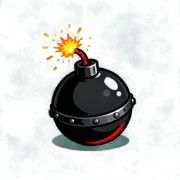
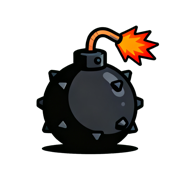
fix(web): 图鉴小Boss区滚动到位 + 轰天雷立绘重做 + 图标换立绘 + 哮天犬定身3s
- 图鉴怪物 Tab 小 Boss 区之前滚不到：monsterContentHeight 漏算小 Boss 区高度，
  补上后 5 种小 Boss（霜魄/蚀甲/撼地/疾风/血泉）立绘+血量+移速+技能可正常滚动查看
- 轰天雷立绘重做：古典中式球形雷+弯曲引信+火花（skill-act-bomb-2d4d58f7）
- 轰天雷图标改用 skill-act-bomb 立绘（drawSkillGlyph 经 skillAssetKey 自动取图，雷字兜底）
- 哮天犬定身 2s → 3s（battle.ts stunT）
- manifest-generated 合并修复（补回 skill-act-bomb hashed URL + hero-ttg）

diff --git a/web/src/game-assets/manifest-generated.ts b/web/src/game-assets/manifest-generated.ts
@@ -3,5 +3,107 @@
 // Web / 微信构建的 ASSET_URLS 优先引用此表（缺失时回退 CDN_BASE+原名）。不要手改。
 import { CDN_BASE } from '../asset-manifest.names';
 export const HASHED_URLS: Record<string, string> = {
+  "bgm-baiguling.mp3": "https://user-growth.tos-cn-shanghai.volces.com/dev/xy/bgm-baiguling-cecf7b63.mp3",
+  "bgm-huoyanshan.mp3": "https://user-growth.tos-cn-shanghai.volces.com/dev/xy/bgm-huoyanshan-63a4dd03.mp3",
+  "bgm-liushahe.mp3": "https://user-growth.tos-cn-shanghai.volces.com/dev/xy/bgm-liushahe-29d5a467.mp3",
+  "bgm-menu.mp3": "https://user-growth.tos-cn-shanghai.volces.com/dev/xy/bgm-menu-f12ea1f1.mp3",
+  "bgm-pansidong.mp3": "https://user-growth.tos-cn-shanghai.volces.com/dev/xy/bgm-pansidong-5015a75b.mp3",
+  "fence-baiguling.png": "https://user-growth.tos-cn-shanghai.volces.com/dev/xy/fence-baiguling-f0a6be28.png",
+  "fence-liushahe.png": "https://user-growth.tos-cn-shanghai.volces.com/dev/xy/fence-liushahe-3bb97fd0.png",
+  "fence-pansidong.png": "https://user-growth.tos-cn-shanghai.volces.com/dev/xy/fence-pansidong-e9ba1936.png",
+  "gate-liushahe.png": "https://user-growth.tos-cn-shanghai.volces.com/dev/xy/gate-liushahe-6c80629f.png",
+  "hero-baigujing.png": "https://user-growth.tos-cn-shanghai.volces.com/dev/xy/hero-baigujing-acf92bcb.png",
+  "hero-bailong.png": "https://user-growth.tos-cn-shanghai.volces.com/dev/xy/hero-bailong-ba4b6628.png",
+  "hero-bajie.png": "https://user-growth.tos-cn-shanghai.volces.com/dev/xy/hero-bajie-4ee16a36.png",
+  "hero-baxian.png": "https://user-growth.tos-cn-shanghai.volces.com/dev/xy/hero-baxian-b65b3e18.png",
+  "hero-damang.png": "https://user-growth.tos-cn-shanghai.volces.com/dev/xy/hero-damang-e81148c6.png",
+  "hero-danjun.png": "https://user-growth.tos-cn-shanghai.volces.com/dev/xy/hero-danjun-02c540f1.png",
+  "hero-erlang.png": "https://user-growth.tos-cn-shanghai.volces.com/dev/xy/hero-erlang-f552c2ae.png",
+  "hero-fanyin.png": "https://user-growth.tos-cn-shanghai.volces.com/dev/xy/hero-fanyin-38e6cb06.png",
+  "hero-guanyin.png": "https://user-growth.tos-cn-shanghai.volces.com/dev/xy/hero-guanyin-aa8b3091.png",
+  "hero-honghaier.png": "https://user-growth.tos-cn-shanghai.volces.com/dev/xy/hero-honghaier-9e35502d.png",
+  "hero-hongpao.png": "https://user-growth.tos-cn-shanghai.volces.com/dev/xy/hero-hongpao-3780425e.png",
+  "hero-huishu.png": "https://user-growth.tos-cn-shanghai.volces.com/dev/xy/hero-huishu-3e39c6c1.png",
+  "hero-jinzha.png": "https://user-growth.tos-cn-shanghai.volces.com/dev/xy/hero-jinzha-3f17289e.png",
+  "hero-laojun.png": "https://user-growth.tos-cn-shanghai.volces.com/dev/xy/hero-laojun-ffb1aa61.png",
+  "hero-liusha.png": "https://user-growth.tos-cn-shanghai.volces.com/dev/xy/hero-liusha-48e6d774.png",
+  "hero-mile.png": "https://user-growth.tos-cn-shanghai.volces.com/dev/xy/hero-mile-c740a819.png",
+  "hero-nezha.png": "https://user-growth.tos-cn-shanghai.volces.com/dev/xy/hero-nezha-54a4dcc6.png",
+  "hero-niulang.png": "https://user-growth.tos-cn-shanghai.volces.com/dev/xy/hero-niulang-4af35259.png",
+  "hero-niumowang.png": "https://user-growth.tos-cn-shanghai.volces.com/dev/xy/hero-niumowang-ae9c378d.png",
+  "hero-qingniu.png": "https://user-growth.tos-cn-shanghai.volces.com/dev/xy/hero-qingniu-bfe89715.png",
+  "hero-shaseng.png": "https://user-growth.tos-cn-shanghai.volces.com/dev/xy/hero-shaseng-0abf6cdf.png",
+  "hero-tangseng-hero.png": "https://user-growth.tos-cn-shanghai.volces.com/dev/xy/hero-tangseng-hero-8cd2e1ac.png",
+  "hero-tiebei.png": "https://user-growth.tos-cn-shanghai.volces.com/dev/xy/hero-tiebei-4d9eeaec.png",
+  "hero-tieshan.png": "https://user-growth.tos-cn-shanghai.volces.com/dev/xy/hero-tieshan-4c12ff94.png",
   "hero-ttg.png": "https://user-growth.tos-cn-shanghai.volces.com/dev/xy/hero-ttg-af240603.png",
+  "hero-wenshu.png": "https://user-growth.tos-cn-shanghai.volces.com/dev/xy/hero-wenshu-78027ab7.png",
+  "hero-wukong.png": "https://user-growth.tos-cn-shanghai.volces.com/dev/xy/hero-wukong-7c70a3d5.png",
+  "icon-merit.png": "https://user-growth.tos-cn-shanghai.volces.com/dev/xy/icon-merit-5a330c9e.png",
+  "icon-stamina.png": "https://user-growth.tos-cn-shanghai.volces.com/dev/xy/icon-stamina-c5ed6fd4.png",
+  "item-shovel.png": "https://user-growth.tos-cn-shanghai.volces.com/dev/xy/item-shovel-b46306bf.png",
+  "loading-tangseng.png": "https://user-growth.tos-cn-shanghai.volces.com/dev/xy/loading-tangseng-6b615f8f.png",
+  "map-baiguling.jpg": "https://user-growth.tos-cn-shanghai.volces.com/dev/xy/map-baiguling-ab55fe18.jpg",
+  "map-huoyanshan.jpg": "https://user-growth.tos-cn-shanghai.volces.com/dev/xy/map-huoyanshan-4de4e60f.jpg",
+  "map-liushahe.jpg": "https://user-growth.tos-cn-shanghai.volces.com/dev/xy/map-liushahe-19084433.jpg",
+  "map-pansidong.jpg": "https://user-growth.tos-cn-shanghai.volces.com/dev/xy/map-pansidong-7ba67b73.jpg",
+  "menu-btn-bag.png": "https://user-growth.tos-cn-shanghai.volces.com/dev/xy/menu-btn-bag-6c9e6352.png",
+  "menu-btn-codex.png": "https://user-growth.tos-cn-shanghai.volces.com/dev/xy/menu-btn-codex-c0bd5e9a.png",
+  "menu-btn-map.png": "https://user-growth.tos-cn-shanghai.volces.com/dev/xy/menu-btn-map-62cfafce.png",
+  "menu-btn-rank.png": "https://user-growth.tos-cn-shanghai.volces.com/dev/xy/menu-btn-rank-afc9940e.png",
+  "menu-btn-settings.png": "https://user-growth.tos-cn-shanghai.volces.com/dev/xy/menu-btn-settings-ac583d9e.png",
+  "menu-btn-stamina-ad.png": "https://user-growth.tos-cn-shanghai.volces.com/dev/xy/menu-btn-stamina-ad-167a4a60.png",
+  "menu-btn-stamina-plus.png": "https://user-growth.tos-cn-shanghai.volces.com/dev/xy/menu-btn-stamina-plus-bbab04eb.png",
+  "menu-btn-stamina-share.png": "https://user-growth.tos-cn-shanghai.volces.com/dev/xy/menu-btn-stamina-share-882c7972.png",
+  "menu-btn-start.png": "https://user-growth.tos-cn-shanghai.volces.com/dev/xy/menu-btn-start-7115e177.png",
+  "menu-home.jpg": "https://user-growth.tos-cn-shanghai.volces.com/dev/xy/menu-home-d601e677.jpg",
+  "merchant-peddler.png": "https://user-growth.tos-cn-shanghai.volces.com/dev/xy/merchant-peddler-55e02e1b.png",
+  "monster-boss-baiguling.png": "https://user-growth.tos-cn-shanghai.volces.com/dev/xy/monster-boss-baiguling-aa6c92ff.png",
+  "monster-boss-huoyanshan.png": "https://user-growth.tos-cn-shanghai.volces.com/dev/xy/monster-boss-huoyanshan-faaee3b4.png",
+  "monster-boss-liushahe.png": "https://user-growth.tos-cn-shanghai.volces.com/dev/xy/monster-boss-liushahe-6e24761a.png",
+  "monster-boss-pansidong.png": "https://user-growth.tos-cn-shanghai.volces.com/dev/xy/monster-boss-pansidong-70f49f7e.png",
+  "monster-boss.png": "https://user-growth.tos-cn-shanghai.volces.com/dev/xy/monster-boss-3d1b43db.png",
+  "monster-cavalry-baiguling.png": "https://user-growth.tos-cn-shanghai.volces.com/dev/xy/monster-cavalry-baiguling-7f4ee03c.png",
+  "monster-cavalry-huoyanshan.png": "https://user-growth.tos-cn-shanghai.volces.com/dev/xy/monster-cavalry-huoyanshan-6cdf1d90.png",
+  "monster-cavalry-liushahe.png": "https://user-growth.tos-cn-shanghai.volces.com/dev/xy/monster-cavalry-liushahe-93e9b3fd.png",
+  "monster-cavalry-pansidong.png": "https://user-growth.tos-cn-shanghai.volces.com/dev/xy/monster-cavalry-pansidong-ec45c0eb.png",
+  "monster-miniboss-blight.png": "https://user-growth.tos-cn-shanghai.volces.com/dev/xy/monster-miniboss-blight-1a922669.png",
+  "monster-miniboss-blood.png": "https://user-growth.tos-cn-shanghai.volces.com/dev/xy/monster-miniboss-blood-bf338460.png",
+  "monster-miniboss-frost.png": "https://user-growth.tos-cn-shanghai.volces.com/dev/xy/monster-miniboss-frost-6adbbb96.png",
+  "monster-miniboss-gale.png": "https://user-growth.tos-cn-shanghai.volces.com/dev/xy/monster-miniboss-gale-f3edbdba.png",
+  "monster-miniboss-quake.png": "https://user-growth.tos-cn-shanghai.volces.com/dev/xy/monster-miniboss-quake-e92e085d.png",
+  "monster-minion-baiguling.png": "https://user-growth.tos-cn-shanghai.volces.com/dev/xy/monster-minion-baiguling-642afb10.png",
+  "monster-minion-huoyanshan.png": "https://user-growth.tos-cn-shanghai.volces.com/dev/xy/monster-minion-huoyanshan-ab0ac08e.png",
+  "monster-minion-liushahe.png": "https://user-growth.tos-cn-shanghai.volces.com/dev/xy/monster-minion-liushahe-40ba3535.png",
+  "monster-minion-pansidong.png": "https://user-growth.tos-cn-shanghai.volces.com/dev/xy/monster-minion-pansidong-5a58c626.png",
+  "monster-minion.png": "https://user-growth.tos-cn-shanghai.volces.com/dev/xy/monster-minion-6d8d01ee.png",
+  "rank-star-off.png": "https://user-growth.tos-cn-shanghai.volces.com/dev/xy/rank-star-off-b059013e.png",
+  "rank-star-on.png": "https://user-growth.tos-cn-shanghai.volces.com/dev/xy/rank-star-on-a698c3b3.png",
+  "skill-act-atk.png": "https://user-growth.tos-cn-shanghai.volces.com/dev/xy/skill-act-atk-f89fb3db.png",
+  "skill-act-bomb.png": "https://user-growth.tos-cn-shanghai.volces.com/dev/xy/skill-act-bomb-2d4d58f7.png",
+  "skill-act-freeze.png": "https://user-growth.tos-cn-shanghai.volces.com/dev/xy/skill-act-freeze-586de580.png",
+  "skill-act-frq.png": "https://user-growth.tos-cn-shanghai.volces.com/dev/xy/skill-act-frq-f260dc24.png",
+  "skill-act-jinggu.png": "https://user-growth.tos-cn-shanghai.volces.com/dev/xy/skill-act-jinggu-81552a2c.png",
+  "skill-act-meteor.png": "https://user-growth.tos-cn-shanghai.volces.com/dev/xy/skill-act-meteor-7d27be77.png",
+  "skill-act-palm.png": "https://user-growth.tos-cn-shanghai.volces.com/dev/xy/skill-act-palm-ce7af24b.png",
+  "skill-pas-dinghai.png": "https://user-growth.tos-cn-shanghai.volces.com/dev/xy/skill-pas-dinghai-0d0b93aa.png",
+  "skill-pas-fabaofu.png": "https://user-growth.tos-cn-shanghai.volces.com/dev/xy/skill-pas-fabaofu-3a118405.png",
+  "skill-pas-fenghuolun.png": "https://user-growth.tos-cn-shanghai.volces.com/dev/xy/skill-pas-fenghuolun-fa9d98af.png",
+  "skill-pas-hushen.png": "https://user-growth.tos-cn-shanghai.volces.com/dev/xy/skill-pas-hushen-e08c9294.png",
+  "skill-pas-jubaopen.png": "https://user-growth.tos-cn-shanghai.volces.com/dev/xy/skill-pas-jubaopen-fabbf906.png",
+  "skill-pas-luoyangchan.png": "https://user-growth.tos-cn-shanghai.volces.com/dev/xy/skill-pas-luoyangchan-465ae5c9.png",
+  "skill-pas-mojin.png": "https://user-growth.tos-cn-shanghai.volces.com/dev/xy/skill-pas-mojin-649dd795.png",
+  "skill-pas-pantao.png": "https://user-growth.tos-cn-shanghai.volces.com/dev/xy/skill-pas-pantao-309f85ff.png",
+  "skill-pas-tongxin.png": "https://user-growth.tos-cn-shanghai.volces.com/dev/xy/skill-pas-tongxin-d654dfb1.png",
+  "skill-pas-xiandan.png": "https://user-growth.tos-cn-shanghai.volces.com/dev/xy/skill-pas-xiandan-19a6884b.png",
+  "skill-pas-xianyuan.png": "https://user-growth.tos-cn-shanghai.volces.com/dev/xy/skill-pas-xianyuan-256d7fa3.png",
+  "skill-pas-yuni.png": "https://user-growth.tos-cn-shanghai.volces.com/dev/xy/skill-pas-yuni-d8fe4184.png",
+  "skill-pas-yunshi.png": "https://user-growth.tos-cn-shanghai.volces.com/dev/xy/skill-pas-yunshi-a6f964b4.png",
+  "skill-pas-zhaoxian.png": "https://user-growth.tos-cn-shanghai.volces.com/dev/xy/skill-pas-zhaoxian-3fb4054d.png",
+  "skill-pas-zhuwang.png": "https://user-growth.tos-cn-shanghai.volces.com/dev/xy/skill-pas-zhuwang-65c09294.png",
+  "tangseng.png": "https://user-growth.tos-cn-shanghai.volces.com/dev/xy/tangseng-4ef058f7.png",
+  "unit-archer.png": "https://user-growth.tos-cn-shanghai.volces.com/dev/xy/unit-archer-9c313d60.png",
+  "unit-cavalry.png": "https://user-growth.tos-cn-shanghai.volces.com/dev/xy/unit-cavalry-eac1e432.png",
+  "unit-monkey.png": "https://user-growth.tos-cn-shanghai.volces.com/dev/xy/unit-monkey-4602fe4c.png",
+  "unit-spear.png": "https://user-growth.tos-cn-shanghai.volces.com/dev/xy/unit-spear-cfa5188e.png",
 };

diff --git a/web/src/battle.ts b/web/src/battle.ts
@@ -5796,7 +5796,7 @@ export class Battle {
         for (const t of line) hurt(t.m, dmg, t.p, 0.2, true);
         // 光束延伸到最远命中目标，凸显「贯穿一整条线」
         center = line[line.length - 1]?.p ?? primary.p;
-        // 哮天犬：咬住「最前怪 3 格内血量最高者」定身 2s（无伤害，纯控制）；视觉咬点同步到该怪
+        // 哮天犬：咬住「最前怪 3 格内血量最高者」定身 3s（无伤害，纯控制）；视觉咬点同步到该怪
         if (g.def.id === 'erlang' && line.length > 0) {
           const front = line[0]!;
           let pick: { m: Monster; p: { c: number; r: number } } | null = null;
@@ -5806,7 +5806,7 @@ export class Battle {
             if (!pick || t.m.maxHp > pick.m.maxHp) pick = t;
           }
           if (pick) {
-            pick.m.stunT = Math.max(pick.m.stunT ?? 0, 2.0);
+            pick.m.stunT = Math.max(pick.m.stunT ?? 0, 3.0);
             this.biteTarget = { c: Math.round(pick.p.c), r: Math.round(pick.p.r) };
           }
         }

diff --git a/web/src/codex.ts b/web/src/codex.ts
@@ -182,7 +182,10 @@ function heroContentHeight(): number {
 
 function monsterContentHeight(): number {
   const types = monsterTypeCards().length;
-  return 28 + 22 + types * (TYPE_CARD_H + TYPE_CARD_GAP) + 18 + 22 + MAPS.length * (MAP_ROW_H + 10) + 8;
+  const miniBossRows = Math.ceil(MINI_BOSS_KINDS.length / 2); // 小 Boss 两列排布
+  const miniBossCardH = 96, miniBossGap = 10;
+  const miniBossH = 6 + 26 + miniBossRows * miniBossCardH + (miniBossRows - 1) * miniBossGap + 8;
+  return 28 + 22 + types * (TYPE_CARD_H + TYPE_CARD_GAP) + 18 + 22 + MAPS.length * (MAP_ROW_H + 10) + miniBossH;
 }
 
 function skillContentHeight(): number {
